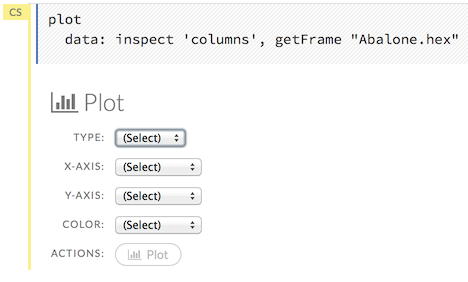
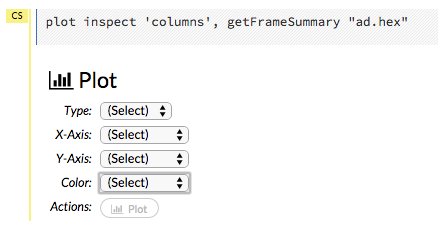
Updates for UI changes

Changed region(s): [[0.0, 0.0, 0.9795, 0.9585]]

diff --git a/h2o-docs/src/product/flow/README.md b/h2o-docs/src/product/flow/README.md
@@ -29,7 +29,7 @@ The following help window displays:
 
 To close this window, click the **X** in the upper-right corner, or click the **Close** button in the lower-right corner. You can also click behind the window to close it. You can also access this list of shortcuts by clicking the **Help** menu and selecting **Keyboard Shortcuts**. 
 
-For additional help, select the **Help** sidebar to the right and click the **Assist Me!** button. 
+For additional help, click the **Assist Me!** button in the row of buttons below the menus. 
 
 ![Assist Me](images/Flow_AssistMeButton.png) 
 
@@ -165,7 +165,7 @@ If you don't have any data of your own to work with, you can find some example d
 
 There are multiple ways to import data in H2O flow:
 
-- Click the **Assist Me!** button in the **Help** sidebar, then click the **importFiles** link. Enter the file path in the auto-completing **Search** entry field and press **Enter**. Select the file from the search results and select it by clicking the **Add All** link.
+- Click the **Assist Me!** button in the row of buttons below the menus, then click the **importFiles** link. Enter the file path in the auto-completing **Search** entry field and press **Enter**. Select the file from the search results and select it by clicking the **Add All** link.
  
 - You can also drag and drop the file onto the **Search** field in the cell.
   
@@ -304,7 +304,7 @@ Ok, now that you understand how to find jobs in H2O, let's submit a new one by b
 
 To build a model: 
 
-- Click the **Assist Me!** button and select **buildModel**
+- Click the **Assist Me!** button in the row of buttons below the menus and select **buildModel**
 
   or 
 
@@ -319,7 +319,7 @@ To build a model:
 - Click the drop-down **Model** menu and select the model type from the list
 
 
-The **Build Model...** button can be accessed from any page containing the .hex key for the parsed data (for example, `getJobs` > `getFrame`). 
+The **Build Model...** button can be accessed from any page containing the .hex key for the parsed data (for example, `getJobs` > `getFrame`). The following image depicts the K-Means model type. Available options vary depending on model type. 
 
 
  ![Model Builder](images/Flow_ModelBuilder.png)
@@ -381,8 +381,8 @@ The available options vary depending on the selected model. If an option is only
 
 - **R2_stopping**: [(GBM](#GBM), [DRF)](#DRF) Specify a threshold for the coefficient of determination (r^2) metric value. When this threshold is met or exceeded, H2O stops making trees.   
 
-- **Mtries**: [(DRF)](#DRF) Specify the columns to randomly select at each level. To use the square root of the columns, enter `-1`.     
-
+- **Mtries**: [(DRF)](#DRF) Specify the columns to randomly select at each level. If the default value of `-1` is used, the number of variables is the square root of the number of columns for classification and p/3 for regression (where p is the number of predictors).   
+   
 - **Sample\_rate**: [(DRF)](#DRF) Specify the sample rate. The range is 0 to 1.0. 
 
 - **Build\_tree\_one\_node**: [(DRF)](#DRF) To run on a single node, check this checkbox. This is suitable for small datasets as there is no network overhead but fewer CPUs are used. The default setting is disabled. 
@@ -584,8 +584,7 @@ To inspect a model, check its checkbox then click the **Inspect** button, or cli
  
  A summary of the model's parameters displays. To display more details, click the **Show All Parameters** button. 
  
-   **NOTE**: The **Clone this model...** button will be supported in a future version. 
- 
+
 To delete a model, click the **Delete** button. 
 
 To generate a POJO to be able to use the model outside of H2O, click the **Download POJO** button. 
@@ -620,7 +619,7 @@ You can also view predictions by clicking the drop-down **Score** menu and selec
 <a name="ViewFrame"></a>
 ## Viewing Frames
 
-To view a specific frame, click the "Key" link for the specified frame, or enter `getFrameSummary "FrameName"` in a cell in CS mode (where `FrameName` is the name of a frame, such as `allyears2k.hex`.
+To view a specific frame, click the "Key" link for the specified frame, or enter `getFrameSummary "FrameName"` in a cell in CS mode (where `FrameName` is the name of a frame, such as `allyears2k.hex`).
 
  ![Viewing specified frame](images/Flow_getFrame.png) 
 
@@ -686,6 +685,8 @@ Datasets can be split within Flow for use in model training and testing.
 
 To create a frame with a large amount of random data (for example, to use for testing), click the drop-down **Admin** menu, then select **Create Synthetic Frame**. Customize the frame as needed, then click the **Create** button to create the frame. 
 
+  ![Flow - Creating Frames](images/Flow_CreateFrame.png)
+
 ---
 
 ### Plotting Frames
@@ -707,6 +708,8 @@ Select the type of plot (point, path, or rect) from the drop-down **Type** menu,
 - cardinality
 
 Select one of the above options from the drop-down **Color** menu to display the specified data in color, then click the **Plot** button to plot the data. 
+
+ ![Flow - Plotting Frames](images/Flow_Plot.png)
 
 **Note**: Because H2O stores enums internally as numeric then maps the integers to an array of strings, any `min`, `max`, or `mean` values for categorical columns are not meaningful and should be ignored. Displays for categorical data will be modified in a future version of H2O. 
 
@@ -761,7 +764,7 @@ The "Outline" tab in the sidebar displays a brief summary of the cells currently
 <a name="SaveFlow"></a>
 ## Saving Flows
 
-You can save your flow for later reuse. To save your flow as a notebook, click the "Save" button (the first button in the row of buttons below the flow name), or click the drop-down "Flow" menu and select "Save." 
+You can save your flow for later reuse. To save your flow as a notebook, click the "Save" button (the first button in the row of buttons below the flow name), or click the drop-down "Flow" menu and select "Save Flow." 
 To enter a custom name for the flow, click the default flow name ("Untitled Flow") and type the desired flow name. A pencil icon indicates where to enter the desired name. 
 
  ![Renaming Flows](images/Flow_rename.png)
@@ -800,12 +803,12 @@ The location specified in `flow_dir` may be either an hdfs or regular filesystem
 
 ### Copying Flows
 
-To create a copy of the current flow, select the **Flow** menu, then click **Make a Copy**. The name of the current flow changes to `Copy of <FlowName>` (where `<FlowName>` is the name of the flow). You can save the duplicated flow using this name by clicking **Flow** > **Save**, or [rename it](#SaveFlow) before saving. 
+To create a copy of the current flow, select the **Flow** menu, then click **Make a Copy**. The name of the current flow changes to `Copy of <FlowName>` (where `<FlowName>` is the name of the flow). You can save the duplicated flow using this name by clicking **Flow** > **Save Flow**, or [rename it](#SaveFlow) before saving. 
 
 
 ### Downloading Flows
 
-After saving a flow as a notebook, click the **Flow** menu, then select **Download...**. A new window opens and the saved flow is downloaded to the default downloads folder on your computer. The file is exported as `<filename>.flow`, where `<filename>` is the name specified when the flow was saved. 
+After saving a flow as a notebook, click the **Flow** menu, then select **Download this Flow**. A new window opens and the saved flow is downloaded to the default downloads folder on your computer. The file is exported as `<filename>.flow`, where `<filename>` is the name specified when the flow was saved. 
 
 **Caution**: You must have an active internet connection to download flows. 
 
@@ -817,7 +820,7 @@ To load a saved flow, click the **Flows** tab in the sidebar at the right. In th
 
 After clicking **Load Notebook**, the saved flow is loaded. 
 
-To load an exported flow, click the **Flow** menu and select **Open...**. In the pop-up window that appears, click the **Choose File** button and select the exported flow, then click the **Open** button. 
+To load an exported flow, click the **Flow** menu and select **Open Flow...**. In the pop-up window that appears, click the **Choose File** button and select the exported flow, then click the **Open** button. 
 
  ![Open Flow](images/Flow_Open.png)
 

diff --git a/h2o-docs/src/product/howto/H2O-DevLogs.md b/h2o-docs/src/product/howto/H2O-DevLogs.md
@@ -62,21 +62,21 @@ If you are using Hadoop and the job is still running:
 
 - Use YARN to obtain the `stdout` and `stderr` logs that are used for troubleshooting. To learn how to access YARN based on management software, version, and job status, see [Accessing YARN](#AccessYARN).
 
-0. Click the **Applications** link to view all jobs, then click the **ApplicationMaster** link for the job. 
+ 0. Click the **Applications** link to view all jobs, then click the **ApplicationMaster** link for the job. 
 	
-	![YARN - Application Master](images/YARN_AllApps_AppMaster.png)
+	 ![YARN - Application Master](images/YARN_AllApps_AppMaster.png)
 
-0. Select the job from the list of active jobs. 
+ 0. Select the job from the list of active jobs. 
 	
-	![YARN - Application Master](images/YARN_AppMaster_Job.png)
+	 ![YARN - Application Master](images/YARN_AppMaster_Job.png)
 	
-0. Click the **logs** link. 
+ 0. Click the **logs** link. 
 	
-	 ![YARN - Application Master](images/YARN_AppMaster_Logs.png)
+	  ![YARN - Application Master](images/YARN_AppMaster_Logs.png)
 	
-0. 	Send the contents of the displayed files to support@h2o.ai. 
+ 0. Send the contents of the displayed files to support@h2o.ai. 
 	
-	![YARN - Application Master](images/YARN_AppMaster_Logs2.png)
+	 ![YARN - Application Master](images/YARN_AppMaster_Logs2.png)
 	
 ---
 

diff --git a/h2o-docs/src/product/tutorials/datascience/DataScienceH2O-Dev.md b/h2o-docs/src/product/tutorials/datascience/DataScienceH2O-Dev.md
@@ -394,7 +394,7 @@ Distributed Random Forest (DRF) is a powerful classification tool. When given a 
 
 - **Seed**: Specify the random number generator (RNG) seed for algorithm components dependent on randomization. The seed is consistent for each H2O instance so that you can create models with the same starting conditions in alternative configurations. 
 
-- **Mtries**: Specify the columns to randomly select at each level. To use the square root of the columns, enter `-1`.  
+- **Mtries**: Specify the columns to randomly select at each level. If the default value of `-1` is used, the number of variables is the square root of the number of columns for classification and p/3 for regression (where p is the number of predictors).   
 
 - **Sample\_rate**: Specify the sample rate. The range is 0 to 1.0. 
 
